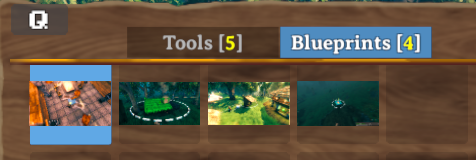
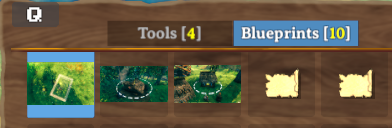
final readme makeover

diff --git a/PlanBuild/README.md b/PlanBuild/README.md
@@ -8,7 +8,7 @@ PlanBuild enables you to plan, copy and share your building creations in Valheim
 
 Plan the construction of pieces without the need to gather the resources first. Anyone can add the required resources to the planned structure later and finish the construction after it was placed.
 
-You still need a __Hammer__ and the required crafting station to finish the construction.
+The __Blueprint Rune__ is compatible with custom piece tables from other mods. All custom pieces will be incorporated into the runes table for the planned pieces. You still need a __Hammer__ and the required crafting station to finish the construction.
 
 Planned pieces that are __unsupported__ can not be finished. These pieces are also slightly more transparent so you can see what is and isn't supported. The planned pieces themselves do not require support, so you can build forever (if you can reach far enough).
 
@@ -53,11 +53,10 @@ The Blueprint Rune comes with a handful of tools to aid handling blueprint creat
 
 * __Center point marker:__ Add a center point marker to your blueprint to determine the center of the blueprint. This is where it will be anchored while placing it. If a blueprint does not have a center point marker, a bottom corner of the blueprint is found and used as the center.
 
-* __Undo blueprint:__ Delete all plans that are associated with a placed blueprint. Plans that are already finished will not be removed. Resources that were already added to the unfinished plans will be refunded.
-
-* __Remove plans:__ Delete plans in a radius, can be used to clean up after using it to measure distances, or as a general cleanup tool. Resources that were already added to the unfinished plans will be refunded.
-  * Press __Ctrl__ to see what pieces will be removed.
-  * Use the __Scroll Wheel__ to change the deletion radius.
+* __Remove planned pieces:__ Delete planned pieces again. Per default only the hovered piece will be deleted. But you can use various modifiers to change that behaviour.
+  * Press __Alt__ to delete all plans that are associated with a placed blueprint. Plans that are already finished will not be removed. Resources that were already added to the unfinished plans will be refunded.
+  * Press __Ctrl__ to delete plans in a radius, can be used to clean up after using it to measure distances, or as a general cleanup tool. Resources that were already added to the unfinished plans will be refunded.
+  * Use the __Scroll Wheel__ while holding __Ctrl__ to change the deletion radius.
   * Use __Shift + Scroll__ to adjust the camera distance.
 
 ### Blueprints
@@ -80,6 +79,12 @@ Place a blueprint as planned pieces. Select your previously saved blueprint and 
 
 Manage and share your blueprints through a custom GUI added to the game. Rename your local blueprints and add a description to them. If a server has this feature enabled, upload your local blueprints to that server so others can download and build your creations as well. Players with admin rights on a server can also manage the server side list through that interface.
 
+### Marketplace Pieces
+
+![Blueprint pieces](https://raw.githubusercontent.com/MathiasDecrock/ValheimMods/master/PlanBuild/resources/BlueprintPieces.png)
+
+Per default the marketplace is accessible via __End__ key (server side configurable). Alternatively you can place one of two new rune themed pieces in the world which provide access to the market on the server. If you want to completely stop clients from accessing the server blueprints via Hotkey, there is another server side config which disables that Hotkey for all clients.
+
 ## Compatibility
 
 Fully compatible with:
@@ -99,6 +104,7 @@ Most values are configurable:
     * Show all plans, even for pieces you don't know yet (default __false__)
     * Build radius of the Plan Totem (default __30__)
 * Blueprint Market
+    * Allow clients to use the Hotkey to access the marketplace (default __true__)
     * Hotkey for the Blueprint Marketplace GUI (default __End__)
     * Allow sharing of blueprints on this server (default __false__)
 * Blueprint Rune
